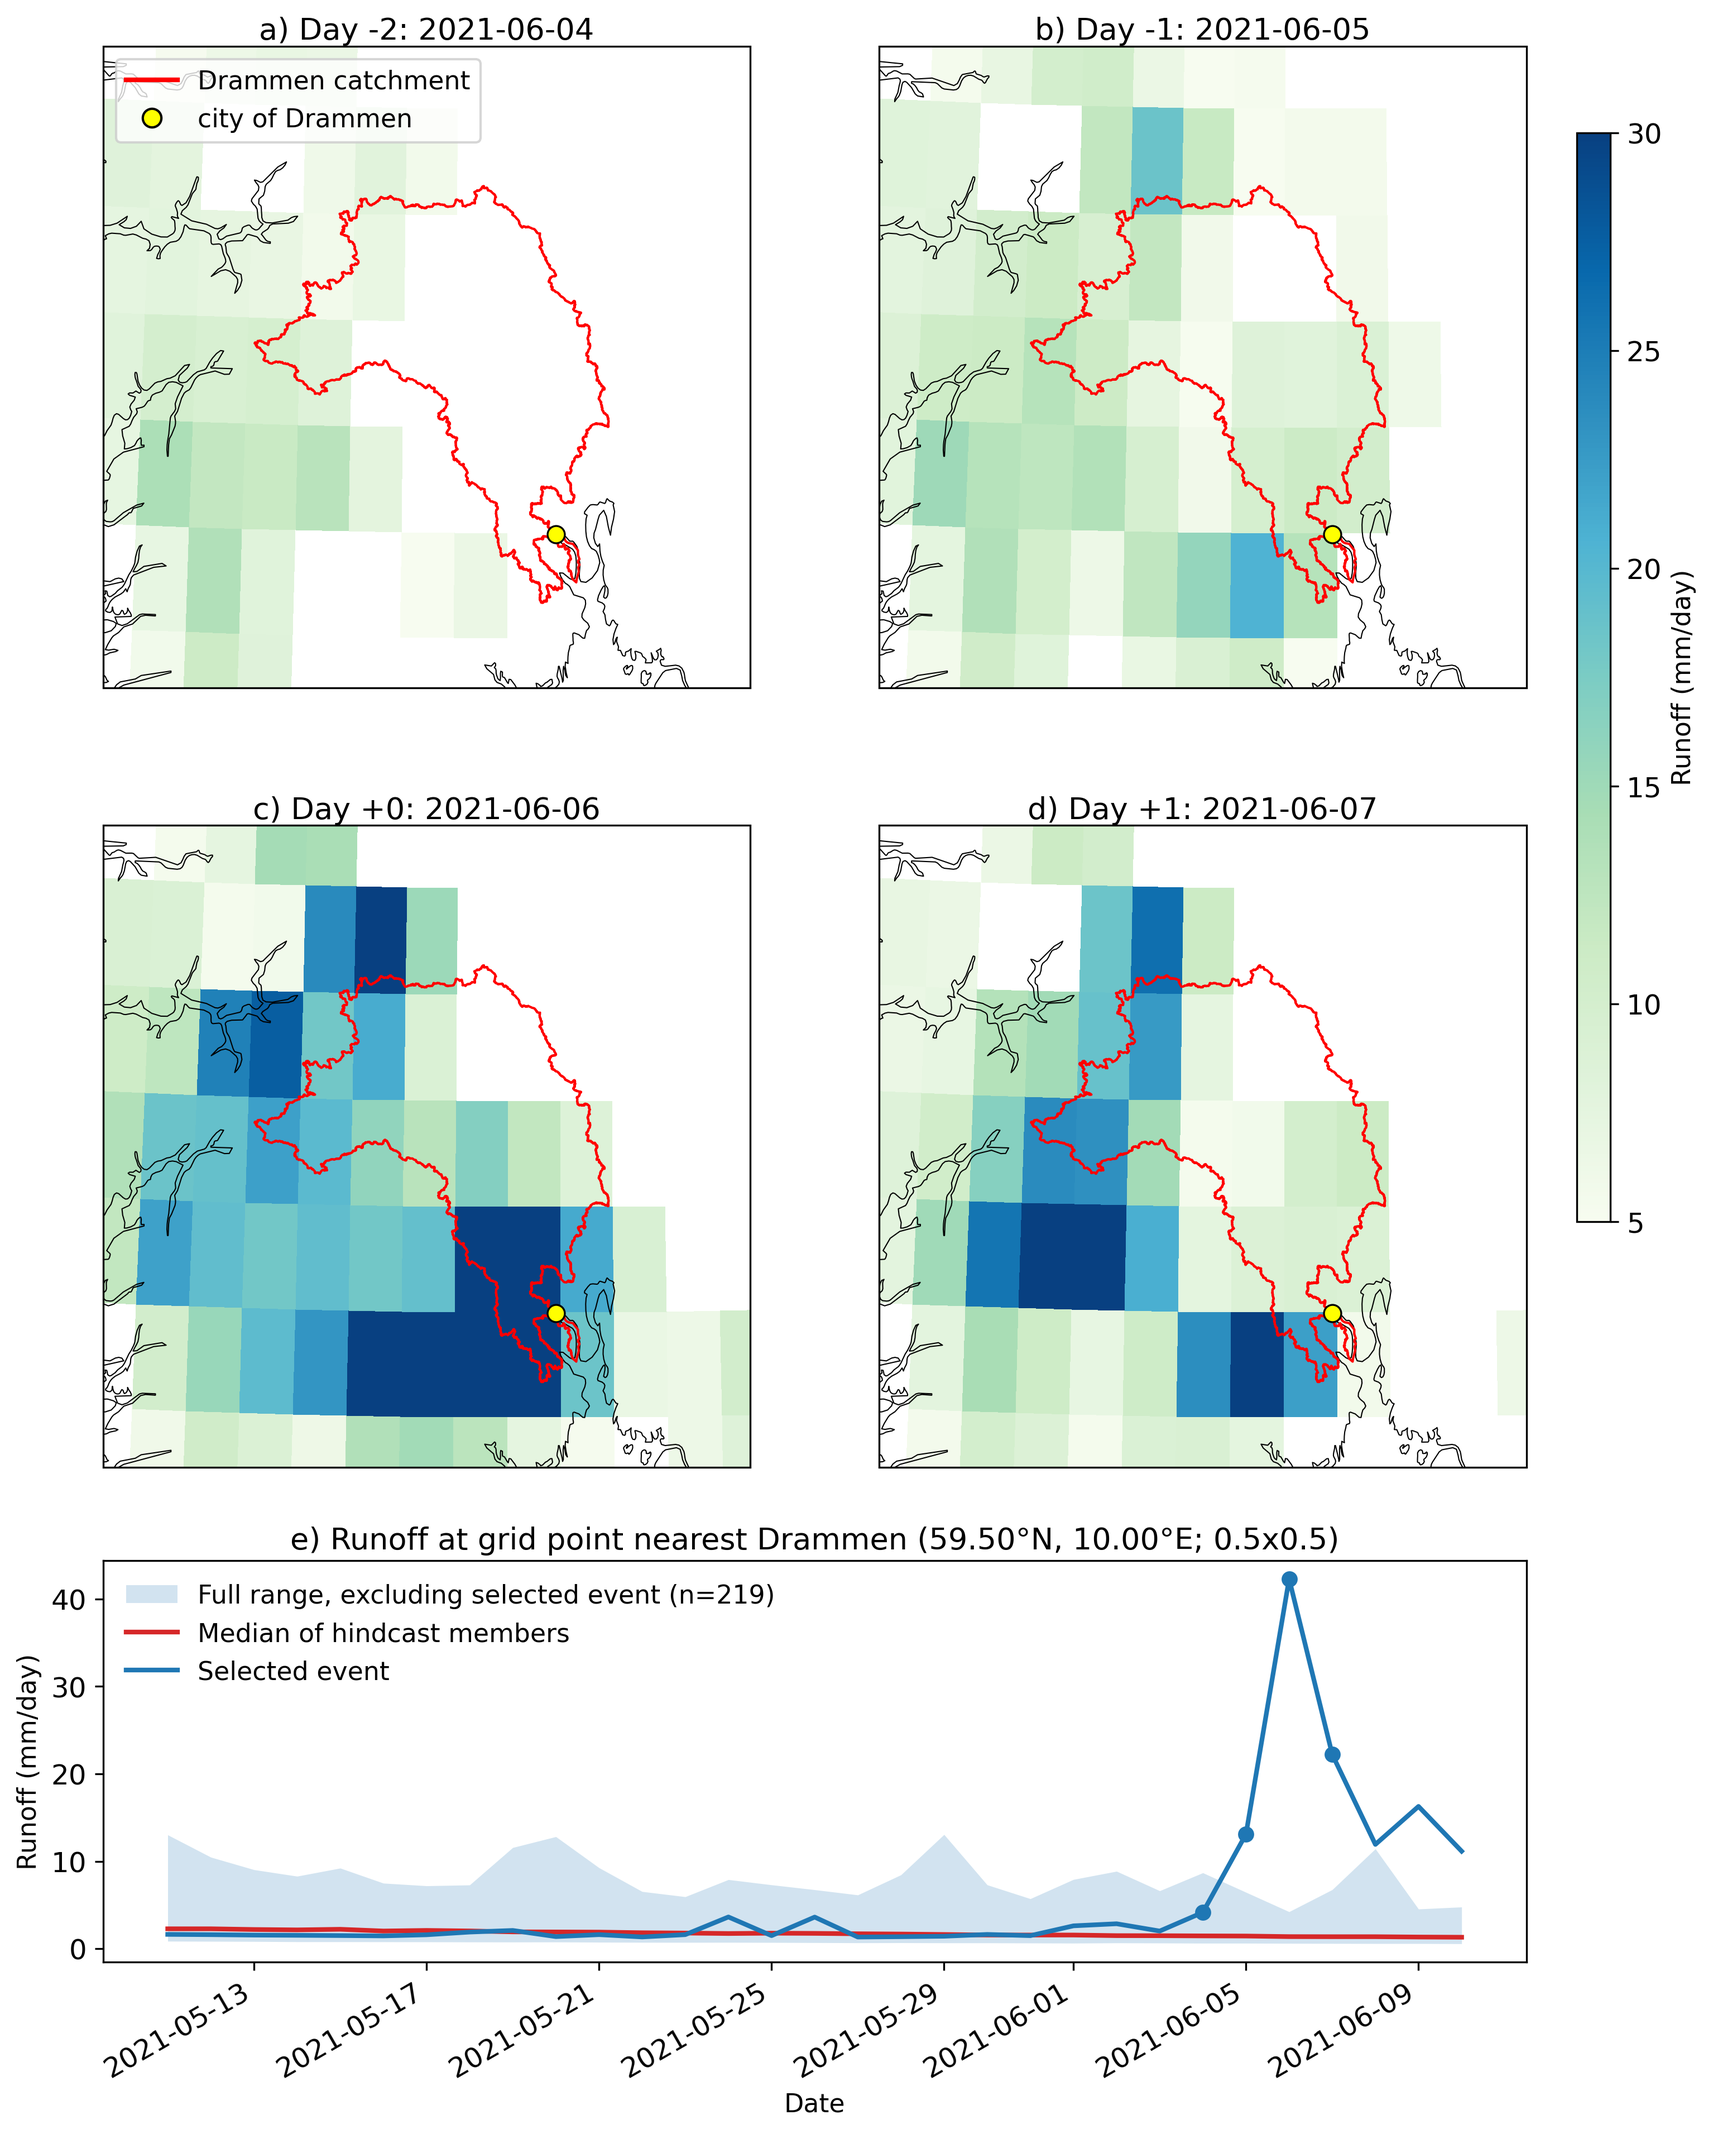
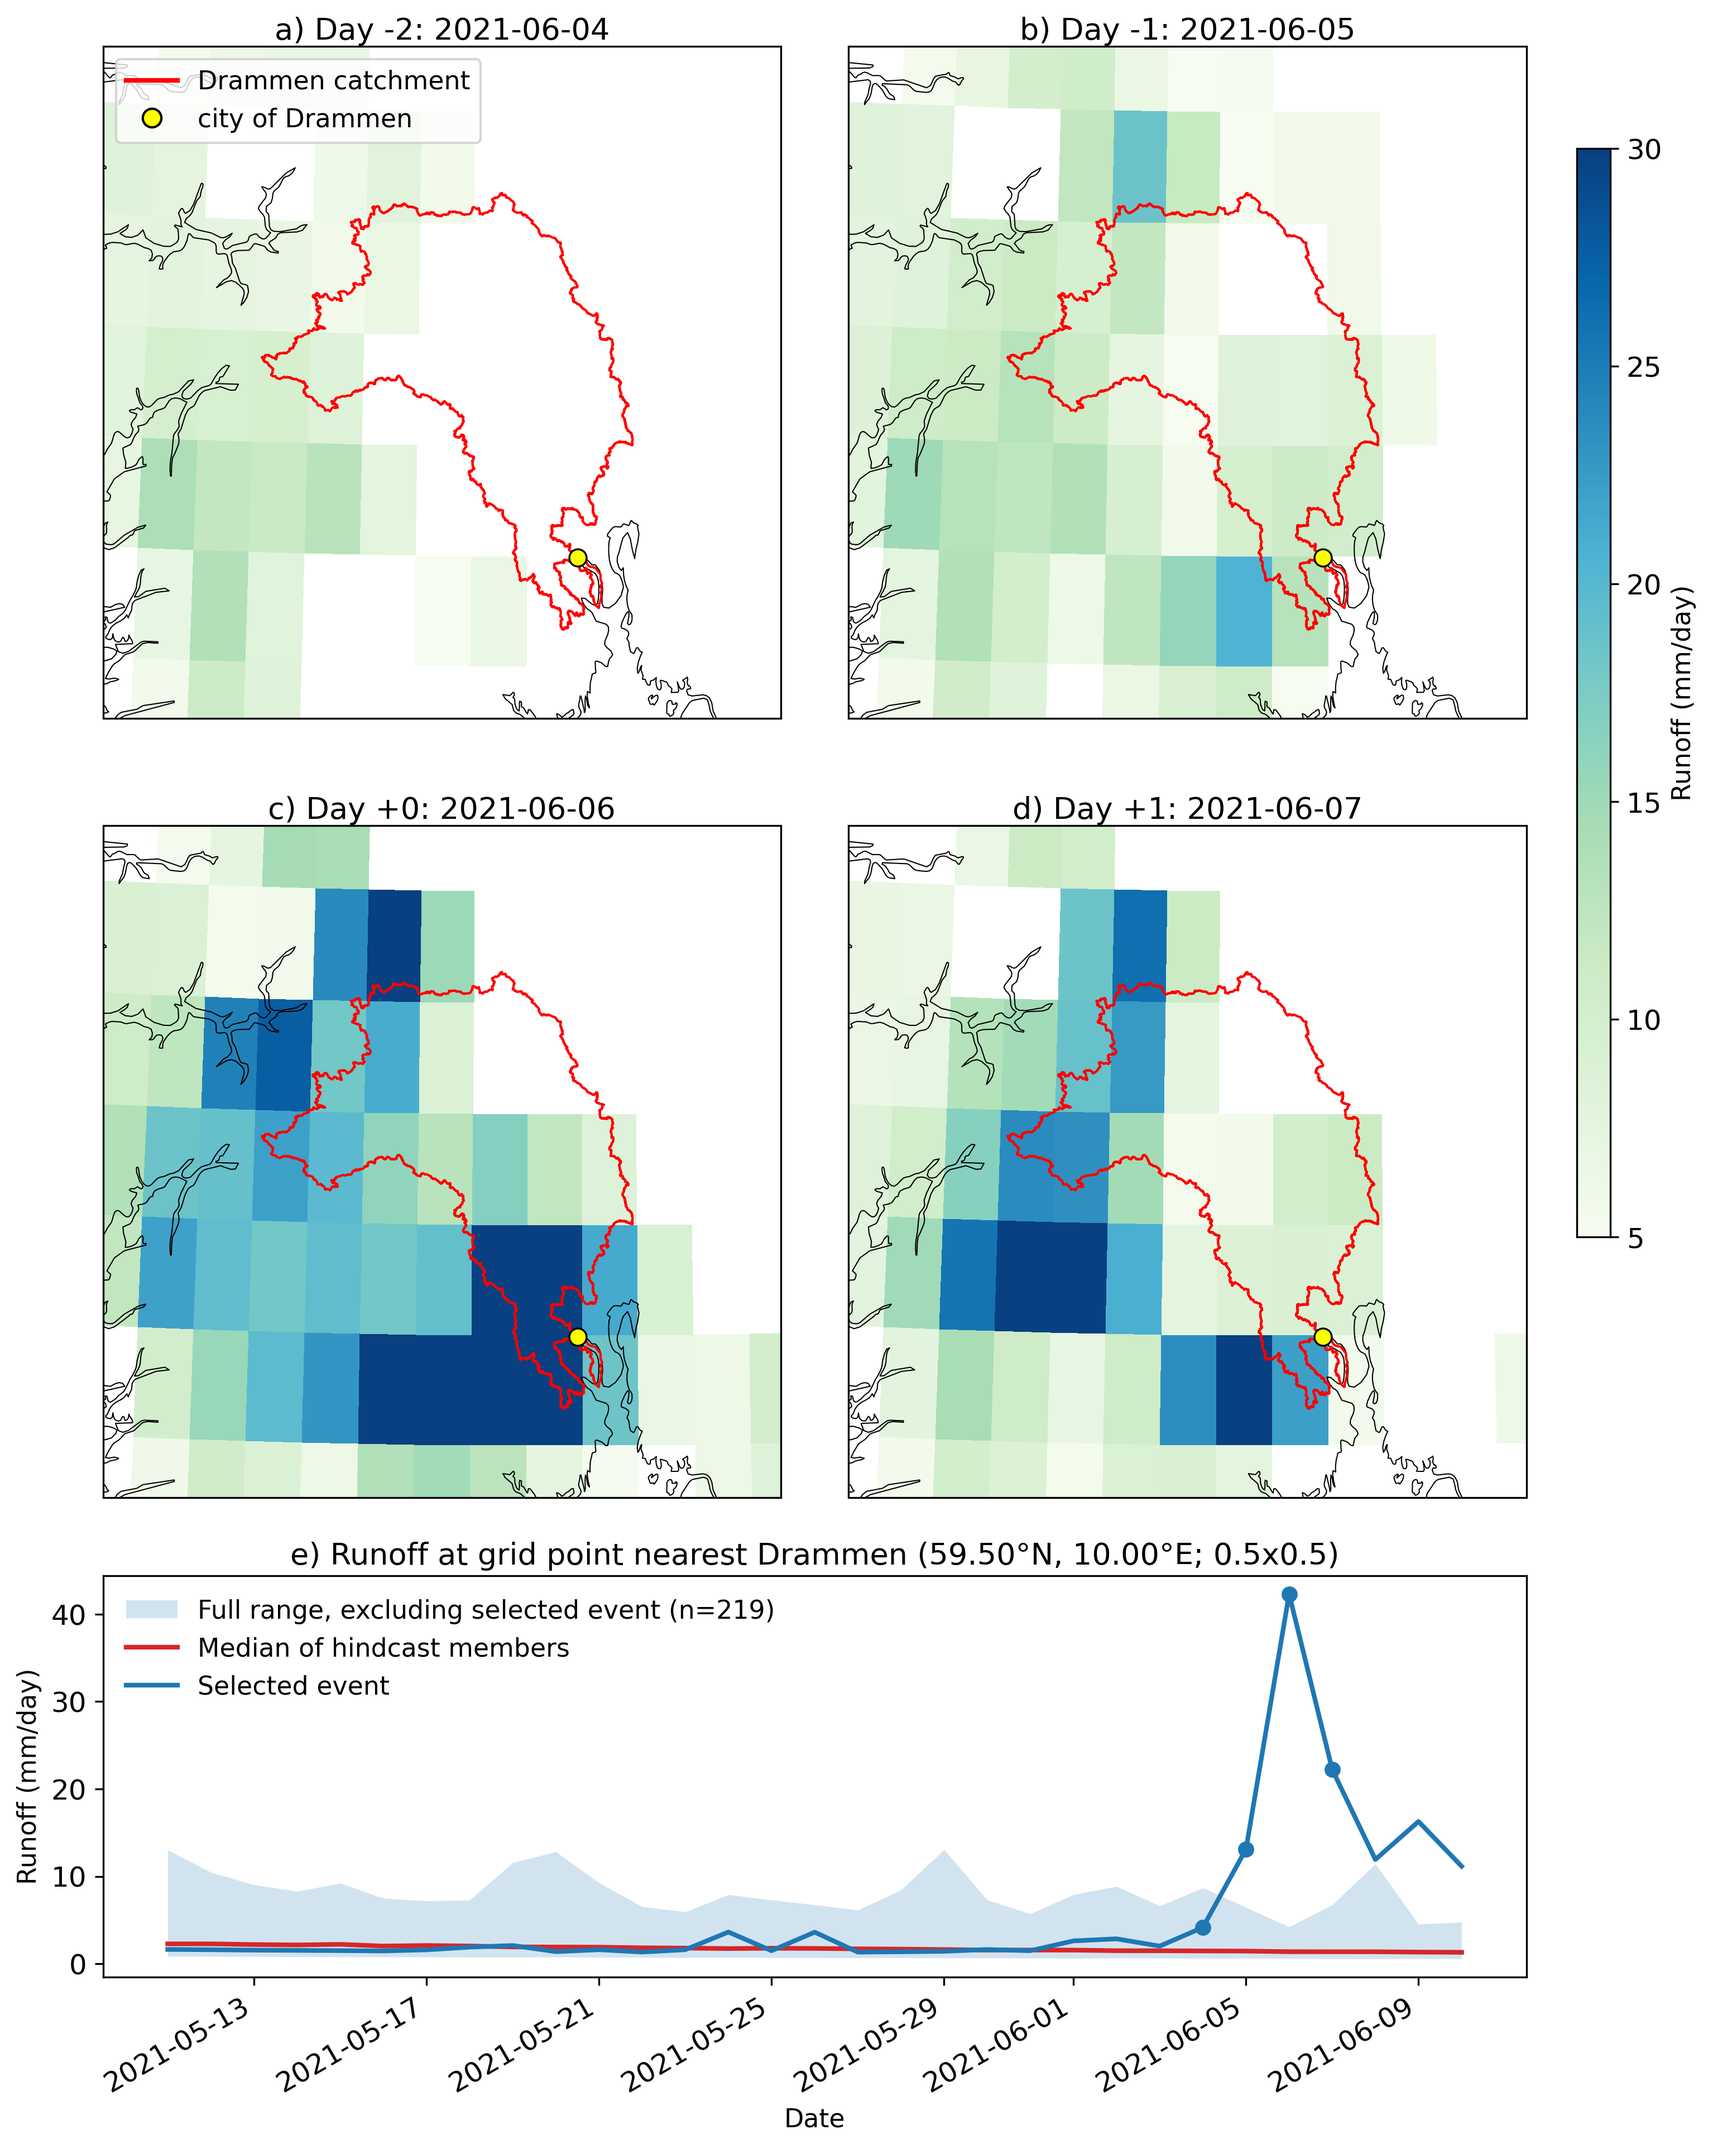
update

diff --git a/code/plot/paper_figs/temp4.py b/code/plot/paper_figs/temp4.py
@@ -68,7 +68,7 @@ FIG_WIDTH_IN = 10
 FIG_HEIGHT_IN = 13
 
 MAP_EXTENT = [6, 12, 59, 62]
-MAP_WSPACE = 0.2
+MAP_WSPACE = 0.1
 MAP_HSPACE = 0.08
 
 CENTRAL_LON = 10.0
